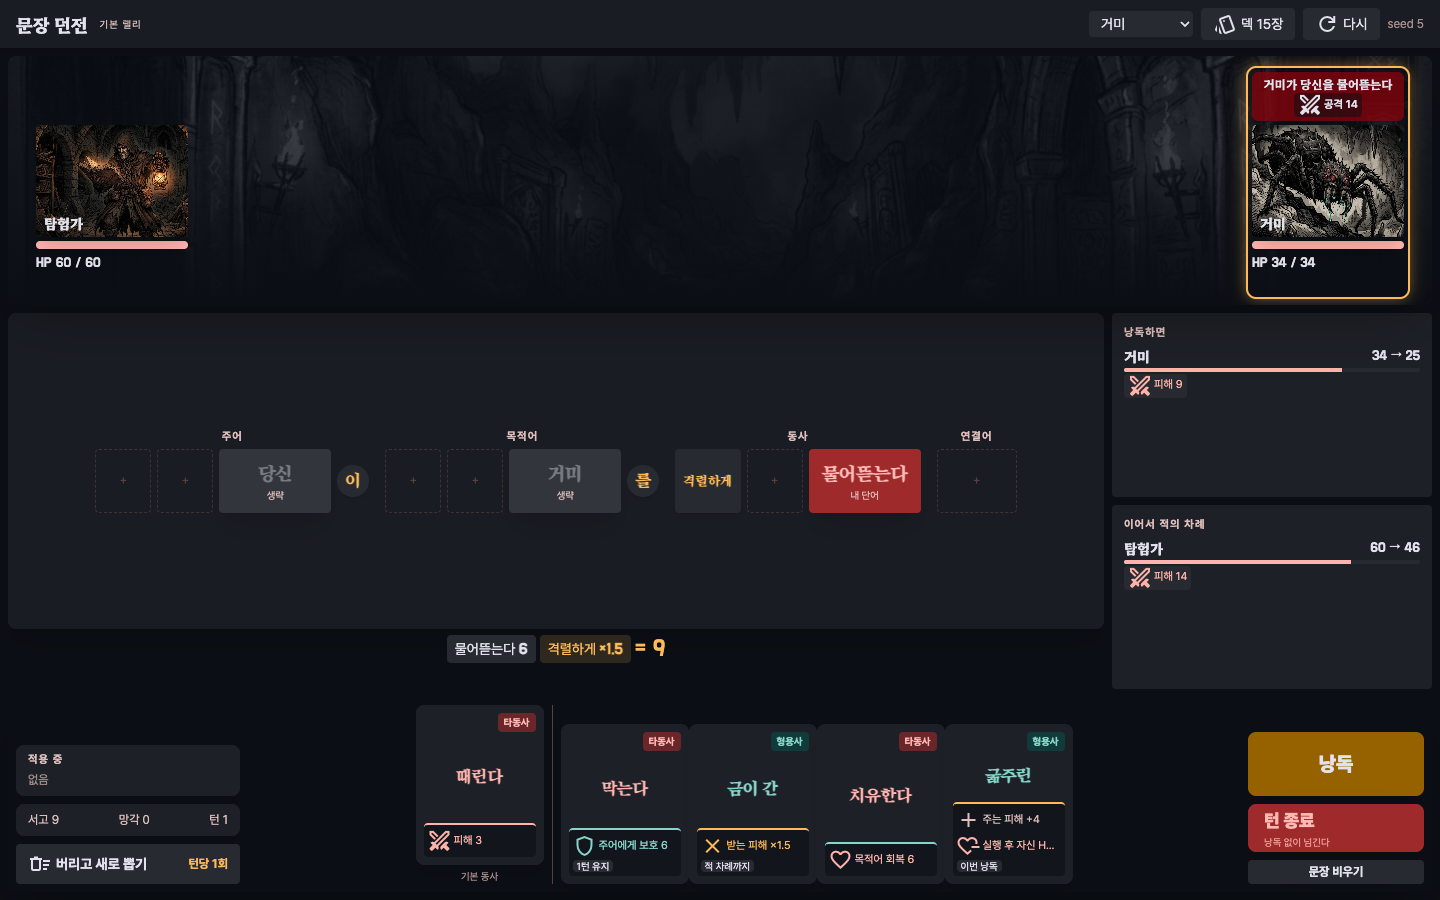
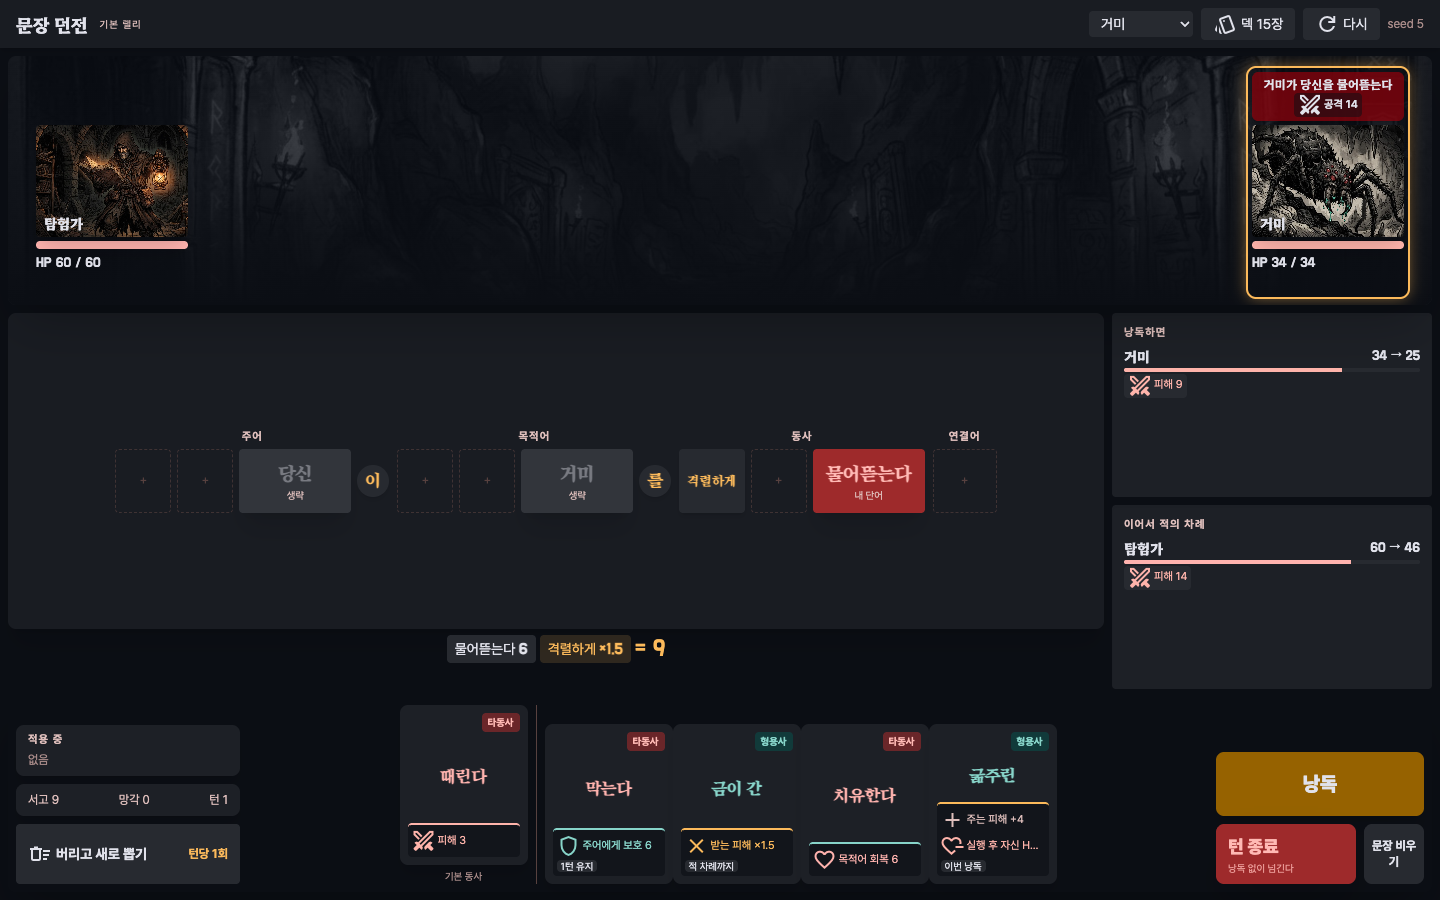
feat(pilot-sentence): 모바일 가로 레이아웃과 터치 입력
Claude-Session: https://claude.ai/code/session_01KrC1eSUtuuKFiCBTazNF3b

diff --git a/pilot-sentence/tests/e2e/mobile.spec.ts b/pilot-sentence/tests/e2e/mobile.spec.ts
@@ -1,0 +1,102 @@
+import { expect, type Locator, type Page, test } from '@playwright/test'
+import { expectContentFits, expectInViewport, expectStacked } from './viewport.js'
+
+/** 터치 대상 최소 크기(px, 표시 spec §3.8). */
+const MIN_TOUCH = 40
+
+async function longPress(page: Page, target: Locator) {
+  const box = await target.boundingBox()
+  if (!box) throw new Error('위치를 찾을 수 없습니다.')
+  const init = { pointerType: 'touch', clientX: box.x + box.width / 2, clientY: box.y + box.height / 2, bubbles: true, isPrimary: true }
+  await target.dispatchEvent('pointerdown', init)
+  await page.waitForTimeout(700)
+  await target.dispatchEvent('pointerup', init)
+}
+
+test.describe('세로(390×844)', () => {
+  test.use({ viewport: { width: 390, height: 844 }, hasTouch: true, isMobile: true })
+  test('rotate-notice만 보이고 게임 화면은 보이지 않는다', async ({ page }) => {
+    await page.goto('/?mode=rally&seed=5')
+    await expect(page.getByTestId('rotate-notice')).toBeVisible()
+    await expect(page.getByTestId('rotate-notice')).toContainText('가로로 돌려 주세요')
+    await expect(page.getByTestId('hand')).toBeHidden()
+  })
+})
+
+test.describe('가로(844×390, 터치)', () => {
+  test.use({ viewport: { width: 844, height: 390 }, hasTouch: true, isMobile: true })
+
+  test.beforeEach(async ({ page }) => {
+    await page.goto('/?mode=rally&seed=5')
+    await page.evaluate(() => window.localStorage.clear())
+    await page.reload()
+    await expect(page.getByTestId('end-turn')).toBeVisible()
+  })
+
+  test('늘 보이는 요소가 모두 화면 안에 있고, 안내는 보이지 않는다', async ({ page }) => {
+    await expect(page.getByTestId('rotate-notice')).toBeHidden()
+    await expectInViewport(page, ['cast', 'end-turn', 'clear', 'hand', 'formula', 'preview-mine', 'preview-enemy', 'pile-draw', 'amplifiers', 'intent-e0', 'discard'])
+  })
+
+  test('눌려서 겹치지 않는다: 전투 영역 → 문장판 → 손패 순서, 미리보기는 내용을 담을 높이', async ({ page }) => {
+    await page.getByTestId('tile-bite').first().tap()
+    await page.getByTestId('slot-0-verb').tap()
+    // 배치 연출(칸이 잠깐 커짐)이 끝난 뒤의 배치를 잰다.
+    await expect(page.getByTestId('end-turn')).toBeEnabled()
+    await expectStacked(page, 'battlefield', 'sentence')
+    await expectStacked(page, 'sentence', 'formula')
+    await expectStacked(page, 'formula', 'hand')
+    // 미리보기는 개체 한 줄(이름·HP·막대·칩)이 목록 안에 넘치지 않고 다 들어가야 한다.
+    await expectContentFits(page, 'preview-mine-list')
+    await expectContentFits(page, 'preview-enemy-list')
+    await expectContentFits(page, 'sentence')
+  })
+
+  test('주요 터치 대상은 40px 이상이다', async ({ page }) => {
+    for (const id of ['cast', 'end-turn', 'discard', 'clear', 'slot-0-verb', 'tile-basic']) {
+      const box = await page.getByTestId(id).first().boundingBox()
+      expect(box, id).not.toBeNull()
+      expect(Math.min(box?.width ?? 0, box?.height ?? 0), id).toBeGreaterThanOrEqual(MIN_TOUCH)
+    }
+  })
+
+  test('카드 탭 → 칸 탭으로 배치된다', async ({ page }) => {
+    await page.getByTestId('tile-bite').first().tap()
+    await page.getByTestId('slot-0-verb').tap()
+    await expect(page.getByTestId('slot-0-verb')).toContainText('물어뜯는다')
+  })
+
+  test('카드를 길게 누르면 설명 툴팁이 화면 안에 뜬다', async ({ page }) => {
+    await longPress(page, page.getByTestId('tile-guard').first())
+    await expect(page.getByTestId('tooltip')).toBeInViewport()
+    await expect(page.getByTestId('tooltip')).toContainText('보호 6')
+  })
+})
+
+test.describe('가로(844×390) 상점', () => {
+  test.use({ viewport: { width: 844, height: 390 }, hasTouch: true, isMobile: true })
+  test('상점 화면도 스크롤 없이 보상 3개와 새로고침·다음 층 버튼이 보인다', async ({ page }) => {
+    await page.goto('/?seed=5&debugEnemyHp=1')
+    await page.evaluate(() => window.localStorage.clear())
+    await page.reload()
+    await page.getByTestId('tile-bite').first().tap()
+    await page.getByTestId('slot-0-verb').tap()
+    await page.getByTestId('cast').tap()
+    await expect(page.getByTestId('leave-shop')).toBeVisible({ timeout: 10_000 })
+    await expectInViewport(page, ['leave-shop', 'shop-reroll', 'offer'])
+    await expect(page.getByTestId('offer')).toHaveCount(3)
+    for (let i = 0; i < 3; i++) {
+      const box = await page.getByTestId('offer').nth(i).boundingBox()
+      expect(box && box.y + box.height <= 390, `보상 ${i + 1}`).toBe(true)
+    }
+  })
+})
+
+test.describe('가로(844×390) 버리기 모드', () => {
+  test.use({ viewport: { width: 844, height: 390 }, hasTouch: true, isMobile: true })
+  test('버리기 모드에서도 확정 버튼과 손패가 화면 안에 있다', async ({ page }) => {
+    await page.goto('/?mode=rally&seed=5')
+    await page.getByTestId('discard').tap()
+    await expectInViewport(page, ['discard', 'discard-confirm', 'hand', 'cast', 'end-turn'])
+  })
+})

diff --git a/pilot-sentence/src/game/ui/CombatScreen.tsx b/pilot-sentence/src/game/ui/CombatScreen.tsx
@@ -149,7 +149,7 @@ export function CombatScreen({ state, busy, lastEvents, dispatch, onRestart }: C
       onDragEnd={handleDragEnd}
       onDragCancel={() => setSelectedId(null)}
     >
-      <main className="grid min-h-0 grid-rows-[auto_minmax(0,1fr)_auto] gap-2 p-2">
+      <main className="grid min-h-0 grid-rows-[auto_minmax(0,1fr)_auto] gap-2 p-2 short:gap-1 short:p-1">
         <Battlefield
           entities={state.entities}
           portraits={portraits}
@@ -158,7 +158,7 @@ export function CombatScreen({ state, busy, lastEvents, dispatch, onRestart }: C
           states={states}
           onPickEnemy={canAct ? (entityId) => run({ type: 'target', entityId }) : null}
         />
-        <div className="grid min-h-0 grid-cols-[minmax(0,1fr)_320px] gap-2">
+        <div className="grid min-h-0 grid-cols-[minmax(0,1fr)_320px] short:grid-cols-[minmax(0,1fr)_250px] gap-2">
           <div className="flex min-h-0 flex-col gap-1">
             <SentenceBoard
               board={state.board}
@@ -213,7 +213,8 @@ export function CombatScreen({ state, busy, lastEvents, dispatch, onRestart }: C
             onSelect={onSelectCard}
             basic={{ wordId: state.build.basicVerb, available: basicVerbAvailable(state) }}
           />
-          <div className="flex w-44 shrink-0 flex-col gap-2">
+          {/* 버튼은 기준 크기에서 60px 이상: 가장 작은 화면(비율 약 0.67)에서도 터치 대상 40px. */}
+          <div className="flex w-52 shrink-0 flex-col gap-2">
             <button
               type="button"
               data-testid="cast"
@@ -223,12 +224,13 @@ export function CombatScreen({ state, busy, lastEvents, dispatch, onRestart }: C
             >
               낭독
             </button>
+            <div className="flex gap-2">
             <button
               type="button"
               data-testid="end-turn"
               disabled={!canAct}
               onClick={() => run({ type: 'endTurn' })}
-              className="flex h-12 flex-col items-start justify-center rounded-xl bg-primary-container px-4 text-on-primary-container shadow-2xl transition active:scale-95 disabled:opacity-50"
+              className="flex min-h-[60px] flex-1 flex-col items-start justify-center rounded-xl bg-primary-container px-3 text-on-primary-container shadow-2xl transition active:scale-95 disabled:opacity-50"
             >
               <span className="font-ui text-lg font-black">턴 종료</span>
               <span className="text-[10px] opacity-80">낭독 없이 넘긴다</span>
@@ -238,10 +240,11 @@ export function CombatScreen({ state, busy, lastEvents, dispatch, onRestart }: C
               data-testid="clear"
               disabled={!canAct || sentenceEmpty}
               onClick={() => run({ type: 'clear' })}
-              className="rounded-lg bg-surface-container-high px-3 py-1 text-xs font-bold disabled:opacity-40"
+              className="min-h-[60px] w-[60px] rounded-xl bg-surface-container-high px-1 text-xs font-bold disabled:opacity-40"
             >
               문장 비우기
             </button>
+            </div>
           </div>
         </section>
       </main>

diff --git a/pilot-sentence/src/game/ui/PreviewList.tsx b/pilot-sentence/src/game/ui/PreviewList.tsx
@@ -18,22 +18,22 @@ function chipText(chip: ChangeChip): string {
 /** 미리보기 한 구간: 개체마다 한 줄(HP 전→후와 막대, 변화 칩). */
 export function PreviewList({ testId, title, changes, empty }: { testId: string; title: string; changes: readonly EntityChange[]; empty: string }) {
   return (
-    <div data-testid={testId} className="flex min-h-0 flex-1 flex-col rounded-lg bg-surface-container p-3 shadow-inner">
-      <div className="mb-1 font-ui text-[11px] font-bold uppercase tracking-widest text-on-surface-variant">{title}</div>
-      <ul className="min-h-0 flex-1 space-y-1.5 overflow-y-auto">
+    <div data-testid={testId} className="flex min-h-0 flex-1 flex-col rounded-lg bg-surface-container p-3 shadow-inner short:p-1.5">
+      <div className="mb-1 font-ui text-[11px] short:mb-0 font-bold uppercase tracking-widest text-on-surface-variant">{title}</div>
+      <ul data-testid={`${testId}-list`} className="min-h-0 flex-1 space-y-1.5 overflow-y-auto short:space-y-0.5">
         {changes.length === 0 && <li className="font-ui text-sm text-outline">{empty}</li>}
         {changes.map((c) => {
           const ratio = c.maxHp > 0 ? Math.max(0, c.hpAfter) / c.maxHp : 0
           return (
-            <li key={c.id} className="flex flex-col gap-0.5">
-              <div className="flex items-center justify-between gap-2">
+            <li key={c.id} className="flex flex-col gap-0.5 short:flex-row short:flex-wrap short:items-center short:gap-x-2">
+              <div className="flex items-center justify-between gap-2 short:justify-start">
                 <span className="font-prose text-sm font-bold">{c.name}</span>
                 <span className="font-number text-sm">
                   {c.hpBefore} → {c.hpAfter}
                   {c.died && <span className="ml-1 rounded bg-error-container px-1 font-ui text-[10px] text-on-error-container">처치</span>}
                 </span>
               </div>
-              <div className="h-1 overflow-hidden rounded-full bg-surface-container-high">
+              <div className="h-1 overflow-hidden rounded-full bg-surface-container-high short:hidden">
                 <div className={`h-full ${c.side === 'enemy' ? 'bg-error' : 'bg-primary'}`} style={{ width: `${ratio * 100}%` }} />
               </div>
               <div className="flex flex-wrap gap-1 font-ui text-[11px]">

diff --git a/pilot-sentence/src/app/Stage.tsx b/pilot-sentence/src/app/Stage.tsx
@@ -1,0 +1,39 @@
+import { type ReactNode, useEffect, useState } from 'react'
+
+/**
+ * 배치 하나를 화면 크기에 맞춰 줄인다(표시 spec §3.8). 기준 크기에서 한 화면에 들어가도록 만든 배치를,
+ * 화면이 기준보다 작으면 루트 전체를 같은 비율로 줄인다(데스크탑용·모바일용을 따로 두지 않는다).
+ * 기준 크기는 터치 대상 최소 40px을 지키는 값이다: 844×390에서 비율 약 0.67 → 64px 버튼이 43px.
+ */
+const STAGE = { width: 1180, height: 580 } as const
+
+function currentZoom(): number {
+  const height = window.visualViewport?.height ?? window.innerHeight
+  return Math.min(1, window.innerWidth / STAGE.width, height / STAGE.height)
+}
+
+export function Stage({ children }: { children: ReactNode }) {
+  const [zoom, setZoom] = useState(currentZoom)
+  useEffect(() => {
+    const update = () => setZoom(currentZoom())
+    window.addEventListener('resize', update)
+    window.visualViewport?.addEventListener('resize', update)
+    return () => {
+      window.removeEventListener('resize', update)
+      window.visualViewport?.removeEventListener('resize', update)
+    }
+  }, [])
+  return (
+    <>
+      <div data-testid="rotate-notice" className="rotate-notice h-[100dvh] flex-col items-center justify-center gap-3 bg-surface-container-lowest p-6 text-center">
+        <span className="material-symbols-outlined text-6xl text-secondary">screen_rotation</span>
+        <p className="font-prose text-2xl font-bold">가로로 돌려 주세요</p>
+        <p className="font-ui text-sm text-on-surface-variant">문장 던전은 가로 화면에서만 플레이할 수 있습니다.</p>
+      </div>
+      {/* 줄인 만큼 안쪽 크기를 키워(100/zoom) 화면을 꽉 채운다. zoom은 자기 크기에도 곱해진다. */}
+      <div className="stage overflow-hidden" style={{ zoom, width: `${100 / zoom}vw`, height: `${100 / zoom}dvh` }}>
+        {children}
+      </div>
+    </>
+  )
+}

diff --git a/pilot-sentence/src/game/ui/ControlPanel.tsx b/pilot-sentence/src/game/ui/ControlPanel.tsx
@@ -53,12 +53,13 @@ export function ControlPanel(props: ControlPanelProps) {
         </Tooltip>
         <span data-testid="turn">턴 {turn}</span>
       </div>
+      <div className="flex gap-2">
       <button
         type="button"
         data-testid="discard"
         disabled={disabled || discardsLeft <= 0}
         onClick={onToggleDiscard}
-        className={`flex items-center justify-between rounded-lg px-3 py-2 text-sm font-bold disabled:opacity-40 ${
+        className={`flex min-h-[60px] flex-1 items-center justify-between rounded-lg px-3 py-2 text-sm font-bold disabled:opacity-40 ${
           discarding ? 'bg-error-container text-on-error-container' : 'bg-surface-container-high'
         }`}
       >
@@ -66,7 +67,7 @@ export function ControlPanel(props: ControlPanelProps) {
           <Icon name="delete_sweep" className="text-[18px]" />
           {discarding ? '버리기 취소' : '버리고 새로 뽑기'}
         </span>
-        <span className="font-ui text-xs text-secondary">턴당 {discardsLeft}회</span>
+        {!discarding && <span className="font-ui text-xs text-secondary">턴당 {discardsLeft}회</span>}
       </button>
       {discarding && (
         <button
@@ -74,11 +75,12 @@ export function ControlPanel(props: ControlPanelProps) {
           data-testid="discard-confirm"
           disabled={disabled || markedCount === 0}
           onClick={onConfirmDiscard}
-          className="rounded-lg bg-error px-3 py-2 text-sm font-bold text-on-error disabled:opacity-40"
+          className="min-h-[60px] w-20 rounded-lg bg-error px-2 py-2 text-sm font-bold text-on-error disabled:opacity-40"
         >
           {markedCount}장 버리기
         </button>
       )}
+      </div>
     </div>
   )
 }

diff --git a/pilot-sentence/src/game/ui/SentenceBoard.tsx b/pilot-sentence/src/game/ui/SentenceBoard.tsx
@@ -25,11 +25,11 @@ export function SentenceBoard(props: SentenceBoardProps) {
   const { board, nameOf, selectedWordId, onHeadClick, onModifierClick, connective, connectivePlaceable, onConnectiveClick, omitsObject } = props
   return (
     <section
-      className="flex min-h-0 flex-1 flex-col justify-center gap-3 rounded-xl bg-surface-container-low p-4 shadow-xl"
+      className="flex min-h-0 flex-1 flex-col justify-center gap-3 rounded-xl bg-surface-container-low p-4 shadow-xl short:gap-1 short:p-1.5"
       data-testid="sentence"
     >
       {board.clauses.map((clause, clauseIndex) => (
-        <div key={clauseIndex} className="flex flex-wrap items-end justify-center gap-4" data-clause={clauseIndex}>
+        <div key={clauseIndex} className="flex flex-wrap items-end justify-center gap-2" data-clause={clauseIndex}>
           {FRAMES[clause.frameId].slots.map((slotDef) => {
             const slot = clause.slots.find((s) => s.role === slotDef.role)
             if (!slot) return null
@@ -75,7 +75,7 @@ function ConnectiveSlot({ connective, placeable, onClick }: { connective: Placed
             data-testid="connective-slot"
             onClick={onClick}
             title={connective ? '누르면 손패로 돌아옵니다' : '연결어를 놓으면 둘째 절이 열립니다'}
-            className={`flex h-16 min-w-20 items-center justify-center rounded-lg px-3 transition-all ${
+            className={`flex h-16 min-w-16 items-center justify-center rounded-lg px-2 transition-all ${
               connective ? 'bg-primary/20 shadow-md' : 'border border-dashed border-outline-variant/60'
             } ${placeable ? HIGHLIGHT : ''} ${isOver && placeable ? 'scale-105' : ''}`}
           >

diff --git a/pilot-sentence/src/app/theme.css b/pilot-sentence/src/app/theme.css
@@ -1,5 +1,8 @@
 @import "tailwindcss";
 
+/* 높이가 낮은 화면(모바일 가로 등): 초상화·카드·여백만 줄인다. 터치 대상(칸·버튼)의 크기는 줄이지 않는다. */
+@custom-variant short (@media (max-height: 640px));
+
 /* Stitch battle-v1 시안의 디자인 토큰 */
 @theme {
   --color-background: #101319;
@@ -42,6 +45,15 @@
   --radius-xl: 0.5rem;
 }
 
-html, body { margin: 0; background: var(--color-surface-container-lowest); }
+html, body { margin: 0; background: var(--color-surface-container-lowest); height: 100dvh; overflow: hidden; }
+/* 모바일 브라우저의 글자 자동 확대를 끈다: 배치는 Stage가 비율로 줄이므로, 글자만 커지면 영역이 눌린다. */
+html { text-size-adjust: 100%; -webkit-text-size-adjust: 100%; }
+
+/* 모바일은 가로만 지원한다(표시 spec §3.8). 세로로 든 터치 기기에서는 안내만 보인다. */
+.rotate-notice { display: none; }
+@media (orientation: portrait) and (hover: none) {
+  .rotate-notice { display: flex; }
+  .stage { display: none; }
+}
 body { font-family: var(--font-ui); color: var(--color-on-surface); user-select: none; }
 .material-symbols-outlined { font-family: "Material Symbols Outlined"; font-weight: normal; font-style: normal; line-height: 1; display: inline-block; }

diff --git a/pilot-sentence/tests/e2e/viewport.ts b/pilot-sentence/tests/e2e/viewport.ts
@@ -16,3 +16,19 @@ export async function expectInViewport(page: Page, testIds: readonly string[]) {
     expect(box.x + box.width, `${id} 오른쪽이 화면 밖`).toBeLessThanOrEqual(viewport.width)
   }
 }
+
+/** 겹침 검사: 위 요소의 아래쪽이 아래 요소의 위쪽을 넘지 않는다(눌려서 겹치는 배치를 잡는다). */
+export async function expectStacked(page: Page, upperId: string, lowerId: string) {
+  const upper = await page.getByTestId(upperId).first().boundingBox()
+  const lower = await page.getByTestId(lowerId).first().boundingBox()
+  expect(upper && lower, `${upperId}·${lowerId}가 보이지 않습니다`).toBeTruthy()
+  if (!upper || !lower) return
+  expect(upper.y + upper.height, `${upperId}가 ${lowerId}와 겹칩니다`).toBeLessThanOrEqual(lower.y + 1)
+}
+
+
+/** 내용 넘침 검사: 영역 안의 내용이 영역 밖으로 넘치지 않는가(눌린 영역에서 위아래로 삐져나오는 배치를 잡는다). */
+export async function expectContentFits(page: Page, testId: string) {
+  const overflow = await page.getByTestId(testId).first().evaluate((el) => el.scrollHeight - el.clientHeight)
+  expect(overflow, `${testId} 내용이 ${overflow}px 넘칩니다`).toBeLessThanOrEqual(1)
+}

diff --git a/pilot-sentence/src/game/ui/AmplifierPanel.tsx b/pilot-sentence/src/game/ui/AmplifierPanel.tsx
@@ -6,7 +6,7 @@ import { Tooltip } from './Tooltip'
 /** 적용 중인 증폭 요소(유물·늘어난 구조·강화·내 상태). 늘 보이는 작은 패널이고, 자세한 효과는 툴팁으로. */
 export function AmplifierPanel({ items }: { items: readonly Amplifier[] }) {
   return (
-    <div data-testid="amplifiers" className="flex flex-col gap-1 rounded-xl bg-surface-container px-3 py-2 font-ui text-xs shadow-lg">
+    <div data-testid="amplifiers" className="flex flex-col gap-1 rounded-xl bg-surface-container px-3 py-2 font-ui text-xs shadow-lg short:flex-row short:items-center short:gap-2 short:py-1">
       <span className="text-[11px] font-bold uppercase tracking-widest text-on-surface-variant">적용 중</span>
       {items.length === 0 ? (
         <span className="text-outline">없음</span>

diff --git a/pilot-sentence/src/game/ui/WordTile.tsx b/pilot-sentence/src/game/ui/WordTile.tsx
@@ -51,7 +51,7 @@ export function WordTile({ def, facts, instanceId, selected, marked, disabled, d
       {...listeners}
       // 드래그를 꺼도(버리기 모드) 클릭은 받는다: dnd-kit의 aria-disabled를 실제 비활성 여부로 덮어쓴다.
       aria-disabled={disabled}
-      className={`flex h-40 w-32 flex-col justify-between rounded-xl bg-surface-container p-2 text-left shadow-lg
+      className={`flex h-40 w-32 short:h-28 flex-col justify-between rounded-xl bg-surface-container p-2 text-left shadow-lg
         ${isDragging ? 'shadow-2xl ring-2 ring-secondary' : 'transition-all duration-200'}
         ${selected && !isDragging ? '-translate-y-2 ring-2 ring-secondary shadow-2xl' : 'hover:-translate-y-1'}
         ${marked ? '-translate-y-2 ring-2 ring-error' : ''}

diff --git a/pilot-sentence/src/game/ui/Battlefield.tsx b/pilot-sentence/src/game/ui/Battlefield.tsx
@@ -19,7 +19,7 @@ export function Battlefield({ entities, portraits, targetId, intents, states, on
   const allies = entities.filter((e) => e.side === 'ally')
   const enemies = entities.filter((e) => e.side === 'enemy')
   return (
-    <section className="relative flex items-end justify-between overflow-hidden rounded-xl px-6 pb-2 pt-3 shadow-2xl">
+    <section data-testid="battlefield" className="relative flex items-end justify-between overflow-hidden rounded-xl px-6 pb-2 pt-3 shadow-2xl short:pb-1 short:pt-1">
       <div
         className="absolute inset-0 bg-cover bg-center opacity-30 mix-blend-luminosity"
         style={{ backgroundImage: 'url(/assets/bg-cavern.jpg)' }}
